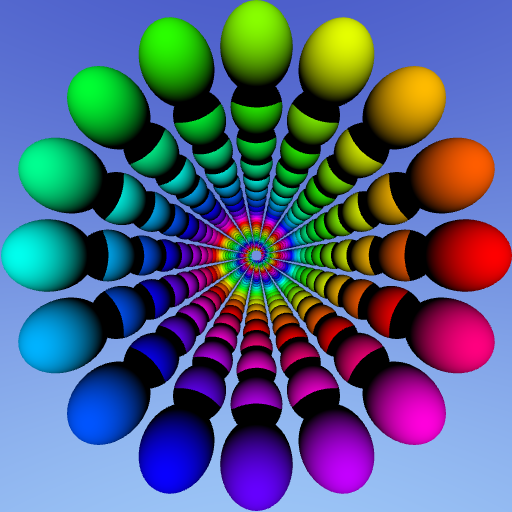
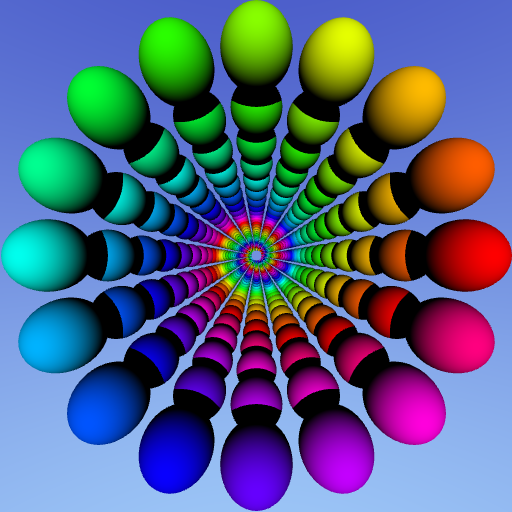
Mon Apr  7 11:14:58 AM CEST 2025

Changed region(s): [[0.625, 0.4375, 0.6562, 0.5], [0.4688, 0.3438, 0.5, 0.375], [0.3438, 0.5, 0.375, 0.5312]]

diff --git a/src/synthese.cpp b/src/synthese.cpp
@@ -11,7 +11,7 @@
 #include "mesh_io.h"
 #include "utility.hpp"
 
-Scene scene1() {
+void scene1(unsigned int width, unsigned int height) {
     Scene scene("scene1");
 
     /* ---- Lights ---- */
@@ -29,10 +29,10 @@ Scene scene1() {
         }, center, 1.0f));
     }
 
-    return scene;
+    scene.render(width, height);
 }
 
-Scene scene2() {
+void scene2(unsigned int width, unsigned int height) {
     Scene scene("scene2");
 
     /* ---- Lights ---- */
@@ -50,10 +50,10 @@ Scene scene2() {
     scene.add(new Sphere(Color(0.82f, 0.2f, 0.2f), Point(-1.0f, 1.0f, -3.0f), 1.0f));
     scene.add(new Sphere(Color(0.2f, 0.2f, 0.82f), Point(1.0f, 1.0f, -3.0f), 1.0f));
 
-    return scene;
+    scene.render(width, height);
 }
 
-Scene scene3() {
+void scene3(unsigned int width, unsigned int height) {
     Scene scene("scene3");
 
     /* ---- Lights ---- */
@@ -71,10 +71,10 @@ Scene scene3() {
         scene.add(positions, translate(0.0f, 2.0f, -3.0f), Green());
     }
 
-    return scene;
+    scene.render(width, height);
 }
 
-Scene scene4() {
+void scene4(unsigned int width, unsigned int height) {
     Scene scene("scene4");
 
     /* ---- Lights ---- */
@@ -113,10 +113,10 @@ Scene scene4() {
         }, pos, 1.0f));
     }
 
-    return scene;
+    scene.render(width, height);
 }
 
-Scene scene5() {
+void scene5(unsigned int width, unsigned int height) {
     Scene scene("scene5");
 
     /* ---- Lights ---- */
@@ -127,10 +127,10 @@ Scene scene5() {
     scene.add("data/synthese/dodecahedron.obj", translate(-2.0f, 0.0f, -4.0f).scale(2.0f), White());
     scene.add("data/synthese/cube.obj", translate(2.0f, 0.0f, -4.0f).scale(0.5f), Red());
 
-    return scene;
+    scene.render(width, height);
 }
 
-Scene scene6() {
+void scene6(unsigned int width, unsigned int height) {
     Scene scene("scene6");
 
     /* ---- Sky ---- */
@@ -145,12 +145,13 @@ Scene scene6() {
     MeshIOData suzanne;
     read_meshio_data("data/synthese/suzanne.obj", suzanne);
     scene.add(suzanne, translate(-1.0f, 0.2f, -2.0f).rotateY(-10.0f), Color(0.678f, 0.424f, 0.902f), true);
-    scene.add(suzanne, translate(1.0f, -0.2f, -2.0f).rotateY(10.0f).rotateZ(180.0f), Color(0.322f, 0.576f, 0.098f), false);
+    scene.add(suzanne, translate(1.0f, -0.2f, -2.0f).rotateY(10.0f).rotateZ(180.0f), Color(0.322f, 0.576f, 0.098f),
+              false);
 
-    return scene;
+    scene.render(width, height);
 }
 
-Scene scene7() {
+void scene7(unsigned int width, unsigned int height) {
     Scene scene("scene7");
 
     /* ---- Lights ---- */
@@ -173,7 +174,6 @@ Scene scene7() {
                 scene.add(new Sphere(hueToRGBA(((i + j) % spheres) * hue),
                                      Point(circleRadius * std::cos(i * angle), circleRadius * std::sin(i * angle), z),
                                      radius));
-
             }
 
             radius *= 0.9f;
@@ -181,18 +181,18 @@ Scene scene7() {
         }
     }
 
-    return scene;
+    scene.render(width, height);
 }
 
 int main() {
     try {
-        scene1().render(1024, 512);
-        scene2().render(1024, 512);
-        scene3().render(1024, 512);
-        scene4().render(1024, 512);
-        scene5().render(1024, 512);
-        // scene6().render(768, 512);
-        scene7().render(512, 512);
+        scene1(1024, 512);
+        scene2(1024, 512);
+        scene3(1024, 512);
+        scene4(1024, 512);
+        scene5(1024, 512);
+        scene6(768, 512);
+        scene7(512, 512);
     } catch(const std::exception& exception) {
         std::cerr << "ERROR : " << exception.what() << '\n';
         return -1;

diff --git a/include/synthese/Ray.hpp b/include/synthese/Ray.hpp
@@ -20,5 +20,5 @@ struct Ray {
     Vector direction;
 
     Point getPoint(float t) const;
-    Point getEpsilonPoint(const Hit& hit, float epsilon = 10e-5) const;
+    Point getEpsilonPoint(const Hit& hit, float epsilon = 10e-3) const;
 };
